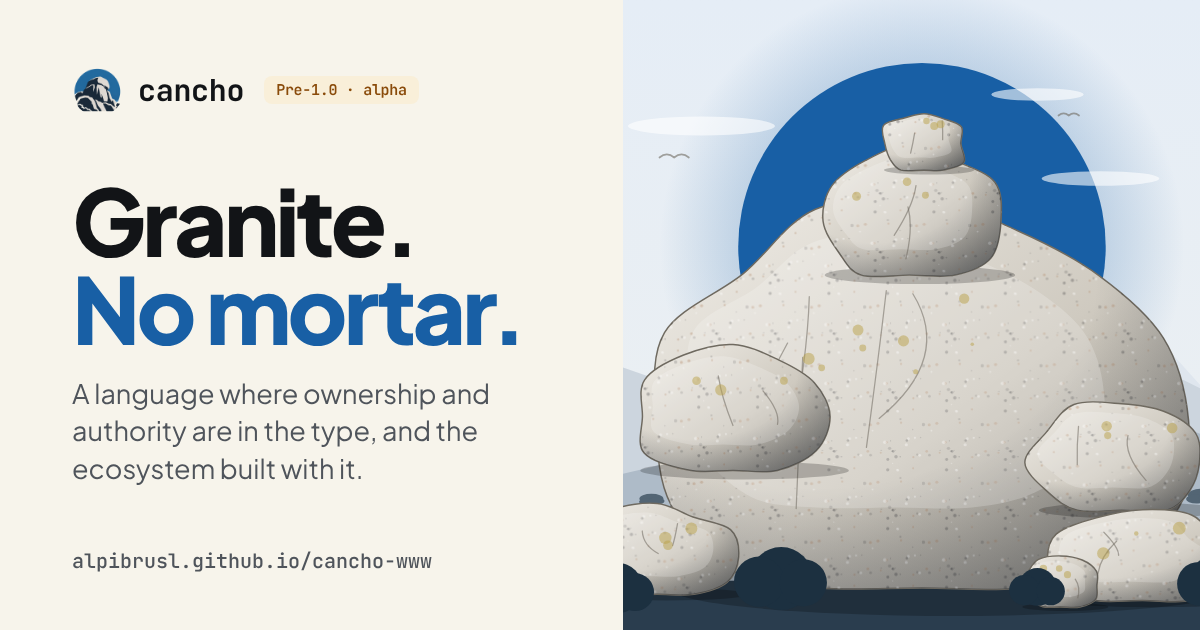
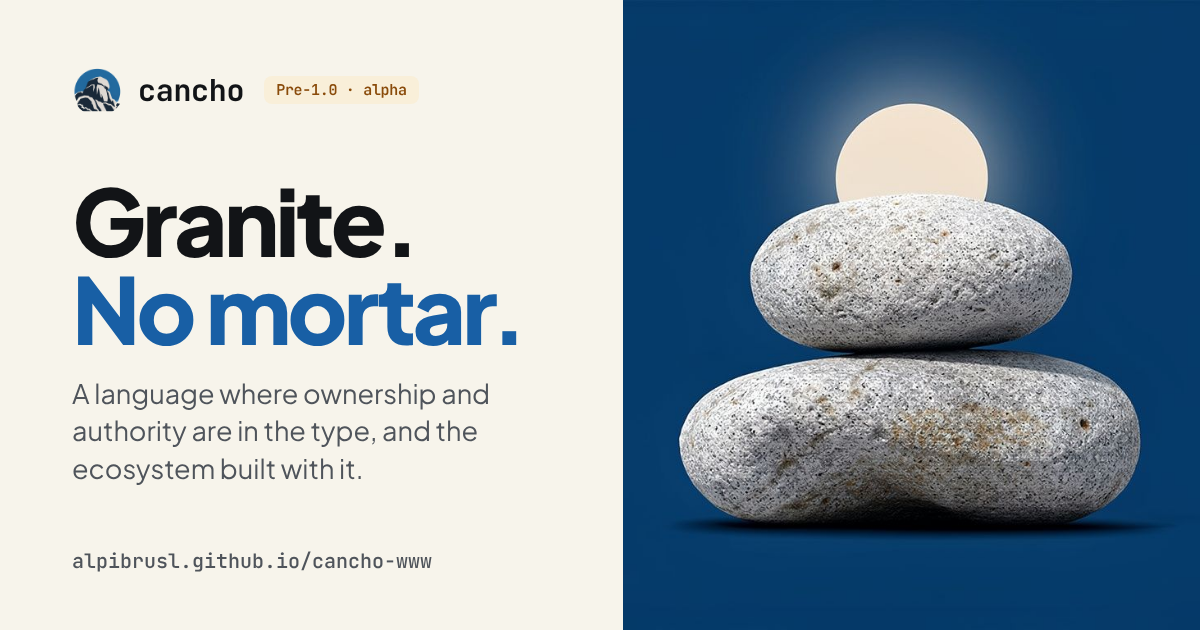
Images (generated with Mistral AI): a gallery section, a dark band behind the agents heading, and the stones-and-sun picture on the share card (#6)
WebP with JPEG fallbacks (about 450 KB in all), lazy-loaded, with alt text. The page says beside the gallery that they are
illustrations and not photographs of La Pedriza; THIRD_PARTY.md records the source.

Claude-Session: https://claude.ai/code/session_013gej8fLJPRZ9EDx9oUcFiv

diff --git a/index.html b/index.html
@@ -89,6 +89,20 @@
 
 <div class="cairn" aria-hidden="true"></div>
 
+<section id="place">
+  <p class="eyebrow">The place</p>
+  <h2>Boulders that stand by themselves.</h2>
+  <p class="sub">La Pedriza is a granite landscape north of Madrid where weathering left fields of boulders resting on one another with nothing between them. That is the picture behind the name, and behind how the language is built.</p>
+  <div class="gallery">
+    <figure class="reveal"><picture><source type="image/webp" srcset="assets/img/field.webp"><img src="assets/img/field.jpg" width="1024" height="768" alt="Aerial view of a hillside covered in tall stacks of rounded granite boulders, with a dirt path and scrub between them under an overcast sky." loading="lazy" decoding="async"></picture><figcaption>A field of boulders. None is held by anything but what it touches.</figcaption></figure>
+    <figure class="reveal"><picture><source type="image/webp" srcset="assets/img/dawn.webp"><img src="assets/img/dawn.jpg" width="1024" height="768" alt="Granite boulders in pink morning light and low mist, with one large rounded rock in the centre." loading="lazy" decoding="async"></picture><figcaption>First light on the granite.</figcaption></figure>
+    <figure class="reveal"><picture><source type="image/webp" srcset="assets/img/balance.webp"><img src="assets/img/balance.jpg" width="1024" height="768" alt="Two rounded granite boulders, one resting on the other, lit from behind by the setting sun over a wide valley." loading="lazy" decoding="async"></picture><figcaption>Two stones, no mortar.</figcaption></figure>
+  </div>
+  <p class="note">Illustrations generated with Mistral AI. They show the idea; they are not photographs of La Pedriza.</p>
+</section>
+
+<div class="cairn" aria-hidden="true"></div>
+
 <section id="authority">
   <p class="eyebrow">The idea</p>
   <h2>Authority is a value, and you can watch it move.</h2>
@@ -230,9 +244,12 @@
 <div class="cairn" aria-hidden="true"></div>
 
 <section id="agents">
-  <p class="eyebrow">For agents</p>
-  <h2>The same page, as data.</h2>
-  <p class="sub">Flip the switch in the header to read this site the way an agent does, or fetch it. Every number and every project above comes from one JSON file.</p>
+  <div class="agents-hero">
+    <picture class="bg"><source type="image/webp" srcset="assets/img/lichen.webp"><img src="assets/img/lichen.jpg" width="1024" height="768" alt="" loading="lazy" decoding="async"></picture>
+    <p class="eyebrow">For agents</p>
+    <h2>The same page, as data.</h2>
+    <p class="sub">Flip the switch in the header to read this site the way an agent does, or fetch it. Every number and every project above comes from one JSON file.</p>
+  </div>
   <div class="agents">
     <ul class="endpoints">
       <li><a href="agents.md">agents.md</a><span>This site as Markdown: what cancho is, the ecosystem, the commands, where to start.</span></li>

diff --git a/assets/site.css b/assets/site.css
@@ -327,3 +327,19 @@ nav { margin-left: auto; gap: 1.3rem; }
 .status { border-radius: 16px; }
 /* the scene is a drawing: keep its SVG text legible on a phone by letting it scroll rather than shrink */
 @media (max-width: 46rem) { .canvas { overflow-x: auto; } .canvas svg { min-width: 34rem; } .ctrl { position: sticky; left: 0; } }
+
+/* images (generated with Mistral AI): a gallery, and a dark band behind the agents heading */
+.gallery { display: grid; gap: 1.2rem; grid-template-columns: repeat(auto-fit, minmax(17rem, 1fr)); margin-top: 2rem; }
+.gallery figure { margin: 0; }
+.gallery picture { display: block; overflow: hidden; border-radius: 16px; box-shadow: var(--shadow), 0 0 0 1px var(--ring); aspect-ratio: 4 / 3; background: var(--soft); }
+.gallery img { display: block; width: 100%; height: 100%; object-fit: cover; transition: transform .8s cubic-bezier(.2, .7, .2, 1); }
+.gallery figure:hover img { transform: scale(1.04); }
+.gallery figcaption { margin-top: .7rem; color: var(--muted); font-size: .9rem; }
+.agents-hero { position: relative; overflow: hidden; border-radius: 20px; padding: 2.4rem 2rem 2.2rem; background: #0a1118; box-shadow: var(--shadow); isolation: isolate; }
+.agents-hero .bg { position: absolute; inset: 0; z-index: -2; }
+.agents-hero .bg img { width: 100%; height: 100%; object-fit: cover; object-position: 50% 40%; display: block; }
+.agents-hero::after { content: ""; position: absolute; inset: 0; z-index: -1; background: linear-gradient(90deg, rgba(8, 14, 22, .92) 0%, rgba(8, 14, 22, .72) 55%, rgba(8, 14, 22, .35) 100%); }
+.agents-hero h2 { color: #f2f5f9; }
+.agents-hero .eyebrow { color: #8cb0ff; }
+.agents-hero .sub { color: #c4ccd8; margin-bottom: 0; }
+@media (prefers-reduced-motion: reduce) { .gallery img { transition: none; } .gallery figure:hover img { transform: none; } }

diff --git a/scripts/og/og.html b/scripts/og/og.html
@@ -12,9 +12,7 @@
   .sub { font-size: 27px; line-height: 1.4; color: var(--muted); margin: 22px 0 0; max-width: 520px; }
   .url { font: 500 20px var(--mono); color: var(--muted); }
   .art { position: relative; margin: 0; background: linear-gradient(var(--sky), color-mix(in srgb, var(--sky) 55%, var(--bg))); overflow: hidden; }
-  .art svg { position: absolute; left: 0; bottom: 0; width: 100%; height: 100%; }
-  .static .drop, .static .sun-wrap, .static .cloud, .static .birds { animation: none !important; }
-  .static .layer { transform: none !important; }
+  .art img { position: absolute; inset: 0; width: 100%; height: 100%; object-fit: cover; object-position: 50% 55%; }
 </style></head>
 <body class="static" data-theme="light">
   <div class="copy">
@@ -23,7 +21,5 @@
       <p class="sub">A language where ownership and authority are in the type, and the ecosystem built with it.</p></div>
     <div class="url">alpibrusl.github.io/cancho-www</div>
   </div>
-  <div class="art"><svg id="scene-svg" viewBox="0 0 640 600" preserveAspectRatio="xMidYMax slice"></svg></div>
-  <script src="../../assets/rocks.js"></script><script src="../../assets/scene.js"></script>
-  <script>window.Scene.draw(document.getElementById('scene-svg'));</script>
+  <div class="art"><img src="stones.jpg" alt=""></div>
 </body></html>

diff --git a/scripts/make_og.js b/scripts/make_og.js
@@ -1,5 +1,5 @@
 #!/usr/bin/env node
-/* Renders og.png (1200x630) from scripts/og/og.html, which draws the same scene as the page (assets/scene.js).
+/* Renders og.png (1200x630) from scripts/og/og.html: the title on the left, scripts/og/stones.jpg (generated with Mistral AI) on the right.
    Needs playwright and a Chromium:  node scripts/make_og.js
    The light theme is forced so the card does not depend on the machine that renders it. */
 const { chromium } = require('playwright');

diff --git a/README.md b/README.md
@@ -12,7 +12,7 @@ The concept is La Pedriza (Sierra de Guadarrama): granite boulders resting on on
 | `index.html`, `assets/` | The page. `assets/site.js` has the hero, the authority animation, the map and the proof charts. |
 | `agents.md`, `llms.txt`, `llms-full.txt` | The agent version of the page. **Generated** from `data/ecosystem.json` by `scripts/gen_agent_files.py`; do not edit by hand. The `agent` switch in the header shows `agents.md`. |
 | `ui/agent-files.cui`, `assets/agent-files.js` | The agent-files pane, **written in [cancho-ui](https://github.com/alpibrusl/cancho-ui)**: `requires Network;` and nothing else. `assets/agent-files.js` is its compiled output (do not edit); rebuild it with `cancho-ui build ui/agent-files.cui -o assets/agent-files.js` and replay the behaviour with `cancho-ui test ui/agent-files.cui ui/agent-files.trace.json`. Everything else on the page is plain JS because cancho-ui has no SVG, media or styling primitives yet. |
-| `assets/scene.js`, `og.png` | The hero scene is drawn by `scene.js`; `og.png` (the link-preview card) is rendered from the same scene by `node scripts/make_og.js` (needs `playwright`). Re-render it when the scene or the tagline changes. |
+| `assets/scene.js`, `og.png`, `assets/img/` | The hero scene is drawn by `scene.js`. `og.png` (the link-preview card) is rendered by `node scripts/make_og.js` (needs `playwright`) from `scripts/og/og.html`; re-render it when the tagline changes. `assets/img/` holds the gallery and agents-band images, generated with Mistral AI (see `THIRD_PARTY.md`). |
 | `demo/`, `assets/media/` | The recorded videos (`scripts/record_demo.sh` makes the first). |
 
 Fonts (Plus Jakarta Sans, JetBrains Mono; SIL OFL) are served from `assets/fonts/`, so the page makes no third-party requests; see `THIRD_PARTY.md`.

diff --git a/THIRD_PARTY.md b/THIRD_PARTY.md
@@ -6,3 +6,9 @@
 | JetBrains Mono (variable, latin subset), `assets/fonts/jetbrains-mono-latin-wght-normal.woff2` | npm `@fontsource-variable/jetbrains-mono`, from https://github.com/JetBrains/JetBrainsMono | 5.3.0 | SIL OFL 1.1, `assets/fonts/OFL-JetBrainsMono.txt` |
 
 The fonts are served from this site, not from a font CDN, so a visitor's browser makes no request to a third party.
+
+## Images
+
+| What | Source | Licence |
+|---|---|---|
+| `assets/img/field.*`, `dawn.*`, `balance.*`, `lichen.*`, and `scripts/og/stones.jpg` (the right half of `og.png`) | Generated with Mistral AI and supplied by the project owner. Recompressed (WebP, and JPEG as a fallback), not otherwise altered. | AI-generated; they depict no real photograph. The page says so beside them. The owner is responsible for the generator's terms permitting this use. |
